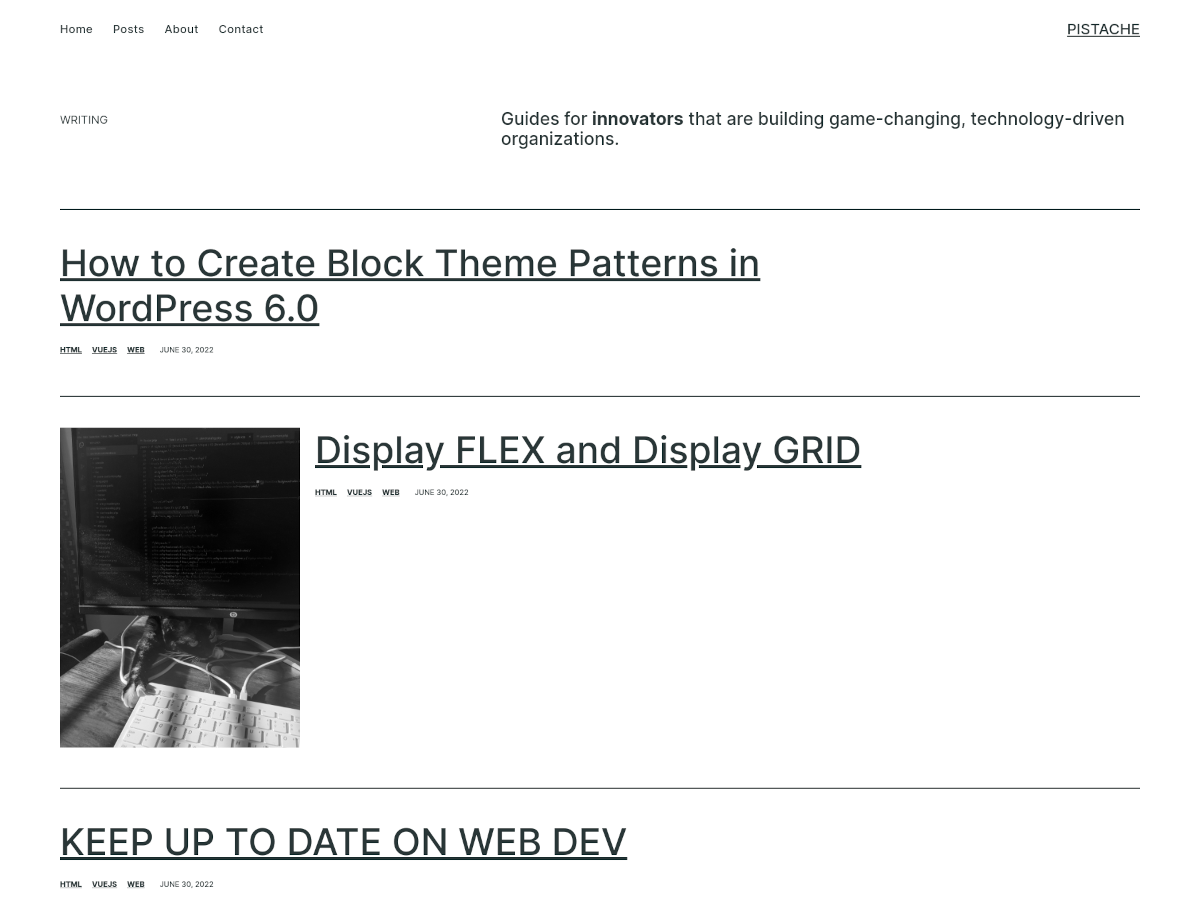
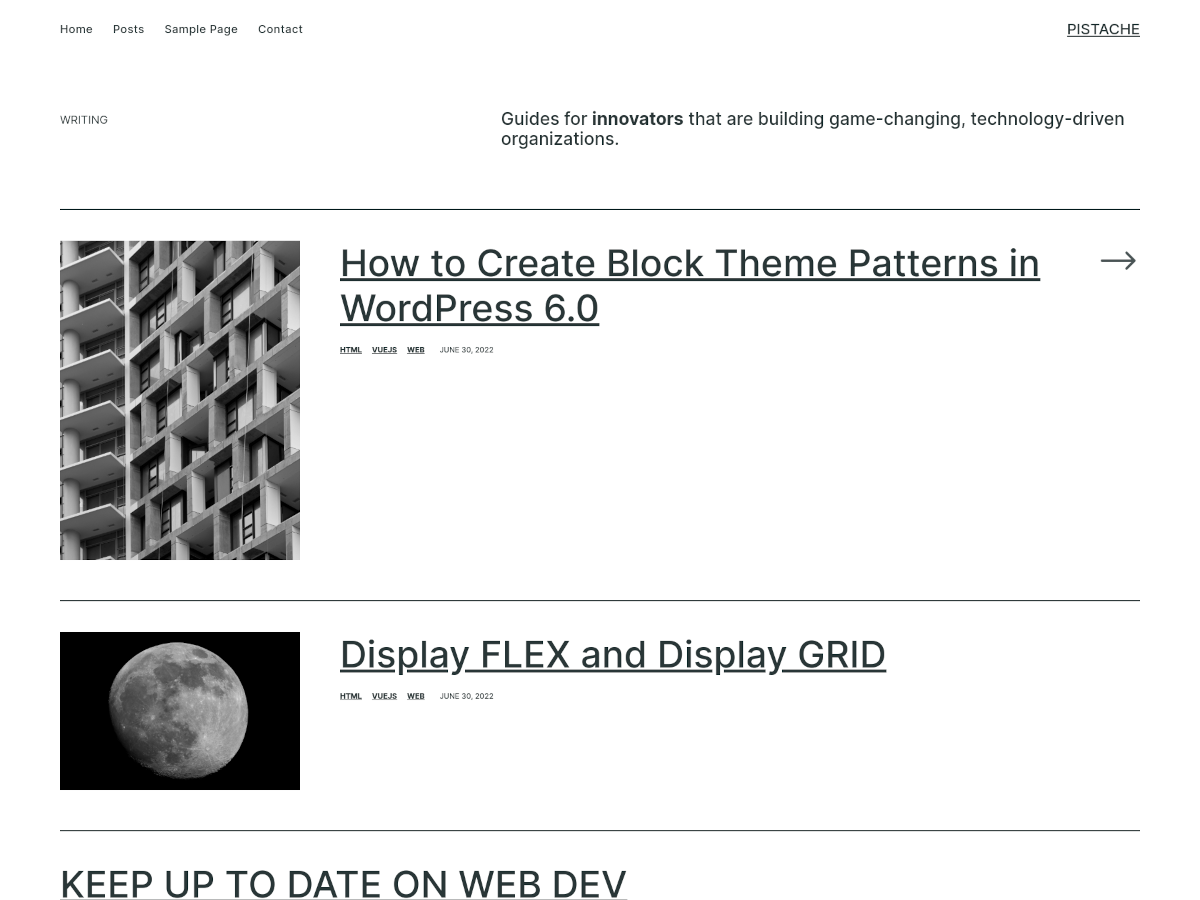
final master

Changed region(s): [[0.0308, 0.2489, 0.8633, 1.0], [0.1542, 0.0311, 0.2467, 0.0622], [0.925, 0.28, 0.9558, 0.3111]]

diff --git a/parts/header.html b/parts/header.html
@@ -1,9 +1,9 @@
 <!-- wp:group {"textColor":"primary","layout":{"inherit":true}} -->
 <div class="wp-block-group has-primary-color has-text-color"><!-- wp:group {"style":{"spacing":{"padding":{"top":"30px","right":"0px","bottom":"30px","left":"0px"}}},"layout":{"type":"flex","justifyContent":"space-between","verticalAlignment":"center"}} -->
-<div class="wp-block-group" style="padding-top:30px;padding-right:0px;padding-bottom:30px;padding-left:0px"><!-- wp:navigation {"ref":6,"style":{"spacing":{"blockGap":"2rem"}},"fontSize":"medium"} /-->
+<div class="wp-block-group" style="padding-top:30px;padding-right:0px;padding-bottom:30px;padding-left:0px"><!-- wp:navigation {"ref":31,"textColor":"primary","overlayTextColor":"primary","style":{"spacing":{"blockGap":"2rem"}},"fontSize":"medium"} /-->
 
-<!-- wp:group {"textColor":"primary","layout":{"type":"flex"}} -->
-<div class="wp-block-group has-primary-color has-text-color"><!-- wp:site-title {"textColor":"primary"} /-->
+<!-- wp:group {"textColor":"pale-pink","layout":{"type":"flex"}} -->
+<div class="wp-block-group has-pale-pink-color has-text-color"><!-- wp:site-title {"style":{"elements":{"link":{"color":{"text":"var:preset|color|primary"}}}},"textColor":"primary"} /-->
 
 <!-- wp:site-logo {"width":40} /--></div>
 <!-- /wp:group --></div>

diff --git a/parts/footer.html b/parts/footer.html
@@ -4,11 +4,11 @@
 <div class="wp-block-group"><!-- wp:site-title /-->
 
 <!-- wp:heading {"level":3,"style":{"typography":{"fontStyle":"normal","fontWeight":"700"}},"fontSize":"small"} -->
-<h3 class="has-small-font-size" style="font-style:normal;font-weight:700">Proudly powered by <a href="http://www.wordpress.com">Worpdress</a></h3>
+<h3 class="has-small-font-size" style="font-style:normal;font-weight:700">Proudly Powered by <a href="http://www.wordpress.com">WordPress</a></h3>
 <!-- /wp:heading --></div>
 <!-- /wp:group -->
 
-<!-- wp:social-links {"iconColor":"primary","iconColorValue":"#1a4548","size":"has-normal-icon-size","className":"is-style-logos-only","layout":{"type":"flex","orientation":"horizontal"}} -->
+<!-- wp:social-links {"iconColor":"primary","iconColorValue":"#2a3637","size":"has-normal-icon-size","className":"is-style-logos-only","layout":{"type":"flex","orientation":"horizontal"}} -->
 <ul class="wp-block-social-links has-normal-icon-size has-icon-color is-style-logos-only"><!-- wp:social-link {"url":"www.facebook.com","service":"facebook"} /-->
 
 <!-- wp:social-link {"url":"www.youtube.com","service":"youtube"} /--></ul>

diff --git a/parts/comments.html b/parts/comments.html
@@ -3,12 +3,12 @@
 
 <!-- wp:comment-template -->
 <!-- wp:columns -->
-<div class="wp-block-columns"><!-- wp:column {"width":"10vw"} -->
-<div class="wp-block-column" style="flex-basis:10vw"><!-- wp:avatar {"size":40,"style":{"border":{"radius":"20px"}}} /--></div>
+<div class="wp-block-columns"><!-- wp:column {"width":"5vw"} -->
+<div class="wp-block-column" style="flex-basis:5vw"><!-- wp:avatar {"size":40,"style":{"border":{"radius":"20px"}}} /--></div>
 <!-- /wp:column -->
 
-<!-- wp:column {"width":"90vw"} -->
-<div class="wp-block-column" style="flex-basis:90vw"><!-- wp:comment-author-name /-->
+<!-- wp:column {"width":"95vw"} -->
+<div class="wp-block-column" style="flex-basis:95vw"><!-- wp:comment-author-name /-->
 
 <!-- wp:group {"style":{"spacing":{"margin":{"top":"0px","bottom":"0px"}}},"layout":{"type":"flex","justifyContent":"left"}} -->
 <div class="wp-block-group" style="margin-top:0px;margin-bottom:0px"><!-- wp:comment-date /-->

diff --git a/templates/single.html b/templates/single.html
@@ -25,16 +25,16 @@
 <!-- /wp:separator --></div>
 <!-- /wp:group -->
 
-<!-- wp:post-featured-image /-->
+<!-- wp:post-featured-image {"className":"main-post-featured"} /-->
 
-<!-- wp:spacer {"height":"2rem"} -->
-<div style="height:2rem" aria-hidden="true" class="wp-block-spacer"></div>
+<!-- wp:spacer {"height":"1rem"} -->
+<div style="height:1rem" aria-hidden="true" class="wp-block-spacer"></div>
 <!-- /wp:spacer -->
 
 <!-- wp:post-content {"align":"full","layout":{"inherit":true}} /-->
 
-<!-- wp:spacer {"height":"2rem"} -->
-<div style="height:2rem" aria-hidden="true" class="wp-block-spacer"></div>
+<!-- wp:spacer {"height":"3rem"} -->
+<div style="height:3rem" aria-hidden="true" class="wp-block-spacer"></div>
 <!-- /wp:spacer -->
 
 <!-- wp:post-author {"showBio":true,"byline":"Published by","fontSize":"medium"} /-->

diff --git a/parts/related-posts.html b/parts/related-posts.html
@@ -11,7 +11,7 @@
 <h5>Related Posts</h5>
 <!-- /wp:heading -->
 
-<!-- wp:columns -->
+<!-- wp:columns {"style":{"spacing":{"blockGap":"5rem"}}} -->
 <div class="wp-block-columns"><!-- wp:column {"width":"80vw"} -->
 <div class="wp-block-column" style="flex-basis:80vw"><!-- wp:query {"queryId":15,"query":{"perPage":3,"pages":0,"offset":0,"postType":"post","order":"desc","orderBy":"date","author":"","search":"","exclude":[],"sticky":"","inherit":false,"taxQuery":{"category":[]}},"displayLayout":{"type":"flex","columns":3}} -->
 <div class="wp-block-query"><!-- wp:post-template {"className":"related-post-grid"} -->

diff --git a/templates/page.html b/templates/page.html
@@ -23,10 +23,10 @@
 <hr class="wp-block-separator has-text-color has-primary-color has-alpha-channel-opacity has-primary-background-color has-background is-style-wide"/>
 <!-- /wp:separator -->
 
-<!-- wp:post-featured-image /-->
+<!-- wp:post-featured-image {"className":"main-post-featured"} /-->
 
-<!-- wp:spacer {"height":"2rem"} -->
-<div style="height:2rem" aria-hidden="true" class="wp-block-spacer"></div>
+<!-- wp:spacer {"height":"1rem"} -->
+<div style="height:1rem" aria-hidden="true" class="wp-block-spacer"></div>
 <!-- /wp:spacer -->
 
 <!-- wp:group {"align":"full","layout":{"inherit":true}} -->
